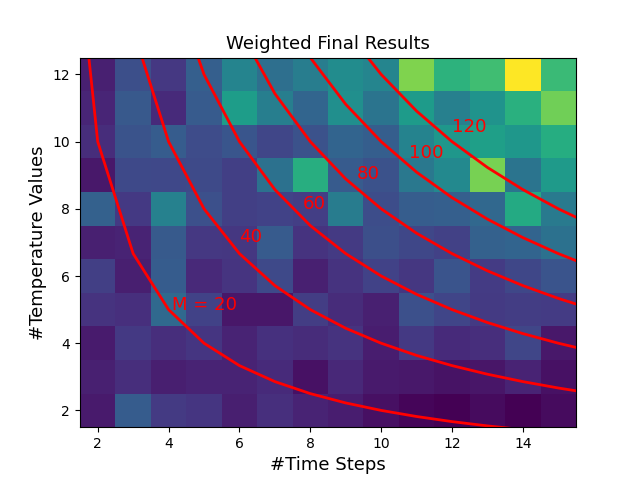
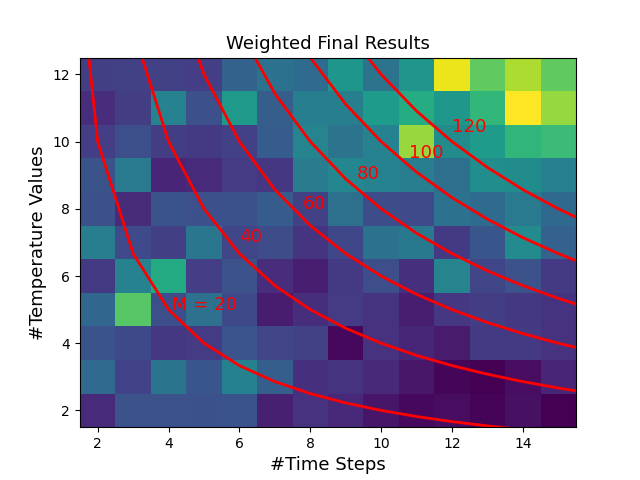
Add data for 2. iteration

Changed region(s): [[0.125, 0.125, 0.9062, 0.9062], [0.5625, 0.4688, 0.75, 0.6875], [0.8438, 0.6562, 0.9062, 0.75]]

diff --git a/index-1.html b/index-1.html
@@ -1,0 +1,9 @@
+<html><head><meta http-equiv="Content-Type" content="text/html; charset=utf-8"/><title>Неизвестный </title></head><body>
+<h1 id="fischer-information-matrix">Fischer Information Matrix</h1>
+<p>Calculates the Fischer Information Matrix of a given ODE system.</p>
+<h1 id="pool-model-plots">Pool Model Plots</h1>
+<p><img alt="#Temperature and #Times Dependence" src="https://github.com/jonaspleyer/Model-Design-Fischer-Information-Matrix/blob/master/plots/pool_model-Time-Temperature-2D-Hist.png?raw=true" /></p>
+<h1 id="growth-model-plots">Growth Model Plots</h1>
+<p><img alt="Comparison of #time samples" src="https://github.com/jonaspleyer/Model-Design-Fischer-Information-Matrix/blob/master/plots/growth_model-Winners_current.png?raw=true" /></p>
+<p><img alt="Winners of sampling process" src="https://github.com/jonaspleyer/Model-Design-Fischer-Information-Matrix/blob/master/plots/growth_model-Success_N_times.png?raw=true" /></p>
+</body></html>

diff --git a/index-2.html b/index-2.html
@@ -1,0 +1,9 @@
+<html><head><meta http-equiv="Content-Type" content="text/html; charset=utf-8"/><title>Неизвестный </title></head><body>
+<h1 id="fischer-information-matrix">Fischer Information Matrix</h1>
+<p>Calculates the Fischer Information Matrix of a given ODE system.</p>
+<h1 id="pool-model-plots">Pool Model Plots</h1>
+<p><img alt="#Temperature and #Times Dependence" src="https://github.com/jonaspleyer/Model-Design-Fischer-Information-Matrix/blob/master/plots/pool_model-Time-Temperature-2D-Hist.png?raw=true" /></p>
+<h1 id="growth-model-plots">Growth Model Plots</h1>
+<p><img alt="Comparison of #time samples" src="https://github.com/jonaspleyer/Model-Design-Fischer-Information-Matrix/blob/master/plots/growth_model-Winners_current.png?raw=true" /></p>
+<p><img alt="Winners of sampling process" src="https://github.com/jonaspleyer/Model-Design-Fischer-Information-Matrix/blob/master/plots/growth_model-Success_N_times.png?raw=true" /></p>
+</body></html>

diff --git a/pool_model.py b/pool_model.py
@@ -180,13 +180,15 @@ def make_plots(fisses, sorting_key):
     fig.clf()
 
 
-def write_in_file(fisses, num_iter, crit_name):
+def write_in_file(fisses, num_iter, crit_name, effort_max, sorting_key):
     P = fisses[0][0][2]
     Const = fisses[0][0][4]
-    filename = f"Experimental_design_iter_{num_iter}_crit_{crit_name}_{P[0]:.3f}_b_{P[1]:.3f}_c_{P[2]:.3f}_n0_{Const[0]}_nmax_{Const[1]}"
+    filename = f"Experimental_design_iter_{num_iter}_crit_{crit_name}_a_{P[0]:.3f}_b_{P[1]:.3f}_c_{P[2]:.3f}_n0_{Const[0]}_nmax_{Const[1]}_effmax_{effort_max}"
     path = 'results'
     filenamepath ='./' + path + '/' + filename + '.json'
-    new_comb = sorted([(f[0][1].shape[-1] * len(f[0][3][0]), f[0][0], f[0][1].shape[-1], len(f[0][3][0]), [list(ff) for ff in (f[0][1])], list(f[0][3][0])) for f in fisses], key=lambda l:l[0])
+    #new_comb = sorted([(f[0][1].shape[-1] * len(f[0][3][0]), f[0][0], f[0][1].shape[-1], len(f[0][3][0]), [list(ff) for ff in (f[0][1])], list(f[0][3][0])) for f in fisses], key=lambda l:l[0])
+    new_comb = [(f[0][1].shape[-1] * len(f[0][3][0]), f[0][0], f[0][1].shape[-1], len(f[0][3][0]), [list(ff) for ff in (f[0][1])], list(f[0][3][0])) for f in fisses]
+    new_comb = sorted(filter(lambda x: x[0] <= effort_max, new_comb), key=lambda l: l[1], reverse=True)[:10]
     with open(filenamepath, "w") as file:
         for c in new_comb:
             opt_design_dict = {'eff': c[0], 'obs': c[1], 'n_times': c[2], 'n_temp': c[3], 'times': c[4], 'temp': c[5]}
@@ -230,12 +232,19 @@ if __name__ == "__main__":
     n_max = 2e4
     effort_low = 2
     effort = 2**4
+    effort_max = 20
     Const = (n0, n_max)
 
     # Define initial parameter guesses
-    a = 0.065
+    #a = 0.065
+    #b = 0.01
+    #c = 1.31
+
+    #2nd choice of parameters:
+    a = 0.0673
     b = 0.01
-    c = 1.31
+    c = 1.314
+
     P = (a, b, c)
 
     # Define bounds for sampling
@@ -333,4 +342,4 @@ if __name__ == "__main__":
     make_convergence_plot(fischer_results, effort_low, effort, sorting_key, N_best)
 
     make_plots(fisses, sorting_key)
-    write_in_file(fisses, 1, 'D')
+    write_in_file(fisses, 2, 'D', effort_max, sorting_key)
